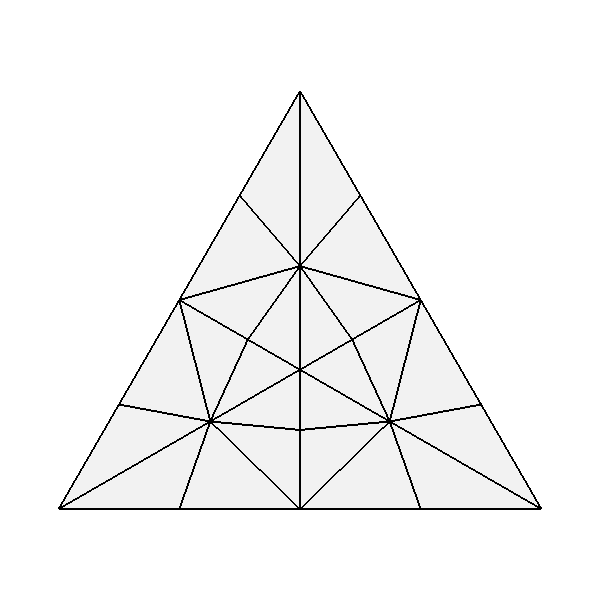
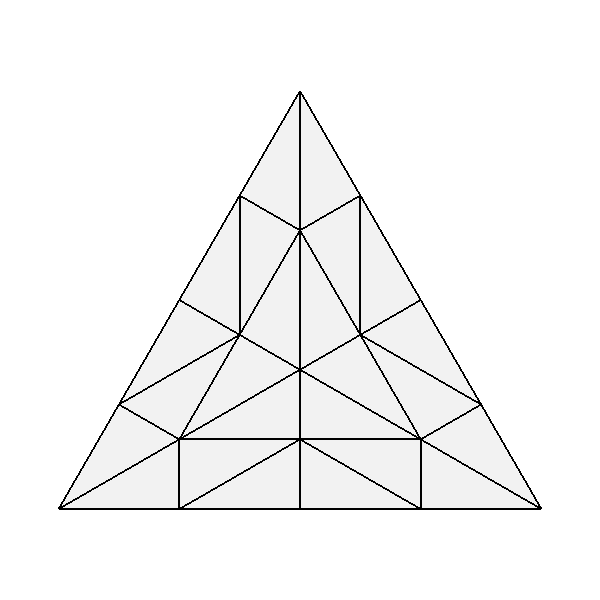
Updated image and text on differences with hardware tessellation:     - replaced initial image with one showing actual OpenGL pattern     - updated text noting lack of support for integer spacing

diff --git a/documentation/bfr_overview.rst b/documentation/bfr_overview.rst
@@ -649,8 +649,9 @@ to one of its three edges.
 
 *Bfr* uses patterns more consistent with those resulting from the subdivision
 of triangles. Only edges parallel to the edges of the triangle are introduced,
-which both reduces the number of facets as well as reducing some of the
-artifacts of the hardware patterns:
+which creates more uniform facets (both edge lengths and area) and reduces
+their number (by one third). This can reduce artifacts that sometimes arise
+with use of the hardware patterns at lower tessellation rates:
 
 +----------------------------------------------+----------------------------------------------+
 | .. image:: images/bfr_tess_diff_tri_osd.png  | .. image:: images/bfr_tess_diff_tri_gpu.png  |
@@ -661,10 +662,11 @@ artifacts of the hardware patterns:
 | Uniform tessellation of a triangle with *Bfr* (left) and GPU tessellation (right).          |
 +---------------------------------------------------------------------------------------------+
 
-These triangular patterns are consistent with what Moreton referred to as
-"integer spacing" for triangular patches in early work on hardware
-tessellation [Moreton, 2001], but which were later lost in the actual
-hardware implementation.
+These triangular patterns were previously referred to as "integer spacing"
+for triangular patches in early work on hardware tessellation. But use of
+these patterns was generally discarded in favor of techniques that split
+the triangle into three quads -- allowing the hardware solution for quad
+tessellation to be reused.
 
 ----
 
